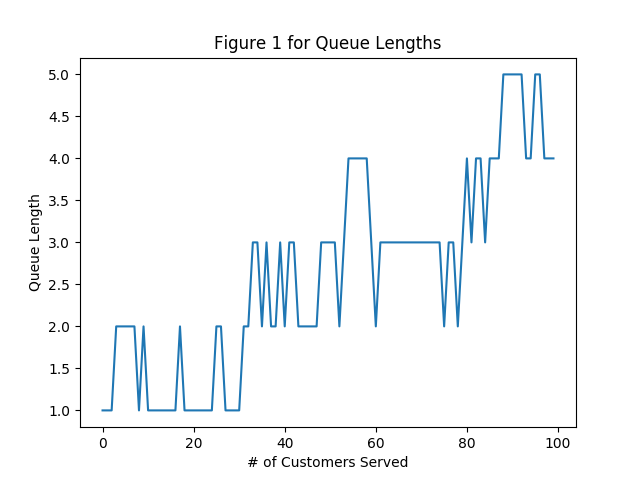
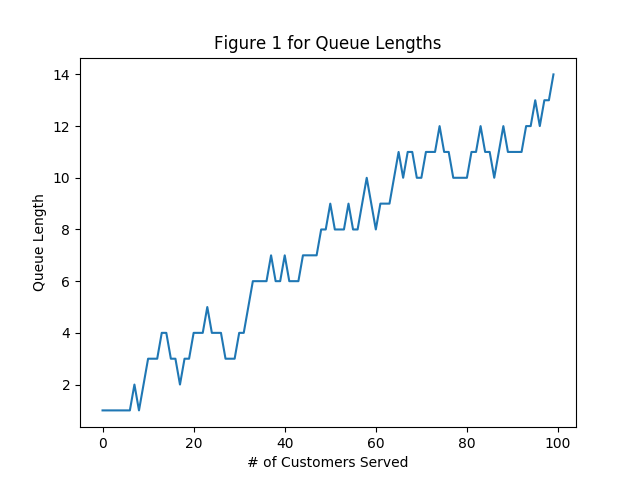
fully functional DMV sim, no graphs yet

diff --git a/Exams/Exam1/Simulation.py b/Exams/Exam1/Simulation.py
@@ -78,7 +78,7 @@ class Simulation():
             for i in range(2):
                 self.DLServers.append(Server.Server(self.dlm, self.dlM, 'DL' + str(i), self.exam))
                 self.VRServers.append(Server.Server(self.vrm, self.vrM, 'VR' + str(i), self.exam))
-            self.BOServers.append(Server.Server(self.bom, self.boM, "BO1", self.exam))
+            self.BOServers.append(Server.Server(self.bom, self.boM, "BO0", self.exam))
 
         else:
             print("not implemented yet!!!")
@@ -91,17 +91,47 @@ class Simulation():
 
         myIter = 0 
         served = 0
+
         custArrival = self.FEL.getFEL()
 
+        self.FEL.printFEL()
+
         while 1:
+            print("\nTime = %d" %(self.simClock))
 
-            self.mainDesk.serveTheCustomer(self.simClock)
+            MDresult = self.mainDesk.serveTheCustomer(self.simClock)
 
-            print('\n')
-            self.FEL.printFEL()
-            print('\n')
+            if not MDresult:
+                print()
 
-            # clock = self.custs.getCurrentCustomer(0)
+            elif MDresult[2] == 'DL Queue':
+                print('dl queue')
+                print(MDresult)
+                self.DLServerQueue.append(MDresult)
+                print("appending to DL, new size %d." % (len(self.DLServerQueue)))
+
+            elif MDresult[2] == 'VR Queue':
+                print('vr queue')
+                print(MDresult)
+                self.VRServerQueue.append(MDresult)
+                print("appending to VR, new size %d." % (len(self.VRServerQueue)))
+
+            elif MDresult[2] == 'BO Queue':
+                print('bo queue')
+                print(MDresult)
+                self.BOServerQueue.append(MDresult)  
+                print("appending to BO, new size %d." % (len(self.BOServerQueue)))
+
+            # Service all queues
+            for i in range(len(self.DLServers)):
+                self.DLServers[i].serveTheCustomer()
+
+            for i in range(len(self.VRServers)):
+                self.VRServers[i].serveTheCustomer()
+
+            for i in range(len(self.BOServers)):
+                self.BOServers[i].serveTheCustomer()
+
             
             if custArrival[myIter][0] == self.simClock:
 
@@ -116,53 +146,61 @@ class Simulation():
                 myIter += 1
                 if myIter == self.totalCustomers:
                     myIter = self.totalCustomers - 1
-        
 
             if (not self.mainDesk.getBusyState() and len(self.MDServerQueue) > 0):
-                self.MDServerQueue.popleft()
-                start, stop = self.mainDesk.service(self.simClock, custArrival[served])
+                customer = self.MDServerQueue.popleft()
+                start, stop = self.mainDesk.service(self.simClock, customer)
                 self.mainDesk.serveTheCustomer(self.simClock)
+                # print(start)
+                # print("what the frick")
+                # print(stop)
+                # print("why are you being crap")
                 self.FEL.pushEvent(start)
                 self.FEL.pushEvent(stop)
 
-                served += 1
-
             for i in range(len(self.DLServers)):
-                if (not self.DLServers[i].getBusyState and len(self.DLServerQueue) > 0):
+                if (not self.DLServers[i].getBusyState() and len(self.DLServerQueue) > 0):
+                    print('\n')
                     customer = self.DLServerQueue.popleft()
                     start, stop = self.DLServers[i].service(self.simClock, customer)
+                    print(customer)
+                    print(start)
+                    print(stop)
                     self.DLServers[i].serveTheCustomer()
+                    print("Server %s is FINALLY DOING SOMETHING USEFUL!!!" %(self.DLServers[i].getServerID()))
                     # self.servedCustomers += 1
-                print("something")
 
             for i in range(len(self.VRServers)):
-                print("something again")
+                if (not self.VRServers[i].getBusyState() and len(self.VRServerQueue) > 0):
+                    print('\n')
+                    customer = self.VRServerQueue.popleft()
+                    start, stop = self.VRServers[i].service(self.simClock, customer)
+                    print(customer)
+                    print("here's the bug for vr")
+                    print(start)
+                    print(stop)
+                    self.VRServers[i].serveTheCustomer()
+                    print("Server %s is FINALLY DOING SOMETHING USEFUL!!!" %(self.VRServers[i].getServerID()))
 
 
             for i in range(len(self.BOServers)):
-                print("something twice again")
+                if (not self.BOServers[i].getBusyState() and len(self.BOServerQueue) > 0):
+                    print('\n')
+                    customer = self.BOServerQueue.popleft()
+                    start, stop = self.BOServers[i].service(self.simClock, customer)
+                    print(customer)
+                    print("here's the bug for bo")
+                    print(start)
+                    print(stop)
+                    self.BOServers[i].serveTheCustomer()
+                    print("Server %s is FINALLY DOING SOMETHING USEFUL!!!" %(self.BOServers[i].getServerID()))
 
+            print('\n')
+            print("MD server queue = %d" %(len(self.MDServerQueue)))
+            print("DL server queue = %d" %(len(self.DLServerQueue)))
+            print("VR server queue = %d" %(len(self.VRServerQueue)))
+            print("BO server queue = %d" %(len(self.BOServerQueue)))
 
-            # # The first available server will be selected to serve the next customer.
-            # # Server One is the default Server. 
-            # if (not self.server1.getBusyState() and len(self.queue) > 0):
-            #     self.queue.popleft()
-            #     self.beginServing1()
-            #     self.serve1()
-            #     self.servedCustomers += 1
-            #     # print("\nServer One Now serving next customer at time %d.\n" % (self.simClock))
-
-            # if (not self.server2.getBusyState() and len(self.queue) > 0 and self.server1.getBusyState()):
-            #     self.queue.popleft()
-            #     self.beginServing2()
-            #     self.serve2()
-            #     self.servedCustomers += 1
-
-            #     # print("\nServer Two Now serving next customer at time %d.\n" % (self.simClock))
-
-            # else:
-
-                # print("No customer to serve or both servers are busy.")
             time.sleep(.5)
             self.simClock += 1 
             # if (not self.server1.getBusyState() and not self.server2.getBusyState() and self.servedCustomers == self.totalCustomers):

diff --git a/Homework/HW2/Simulation.py b/Homework/HW2/Simulation.py
@@ -113,6 +113,7 @@ class Simulation():
 
         myIter = 0 
 
+        print(self.arrivalTimes)
         while 1:
 
             self.serve1()
@@ -140,15 +141,15 @@ class Simulation():
                 self.beginServing1()
                 self.serve1()
                 self.servedCustomers += 1
-                # print("\nServer One Now serving next customer at time %d.\n" % (self.simClock))
+                print("\nServer One Now serving next customer at time %d.\n" % (self.simClock))
 
-            if (not self.server2.getBusyState() and len(self.queue) > 0 and self.server1.getBusyState()):
+            if (not self.server2.getBusyState() and len(self.queue) > 0):
                 self.queue.popleft()
                 self.beginServing2()
                 self.serve2()
                 self.servedCustomers += 1
 
-                # print("\nServer Two Now serving next customer at time %d.\n" % (self.simClock))
+                print("\nServer Two Now serving next customer at time %d.\n" % (self.simClock))
 
             # else:
 
@@ -159,7 +160,7 @@ class Simulation():
             ##############################################################################
             ''' Uncomment print functions and change speed to see results in real time!'''
             ##############################################################################
-            time.sleep(.0001) # 1000 iterations/simulation seconds per second. Used to quickly speed up a simulation. 
+            time.sleep(.25) # 1000 iterations/simulation seconds per second. Used to quickly speed up a simulation. 
 
             if (not self.server1.getBusyState() and not self.server2.getBusyState() and self.servedCustomers == self.totalCustomers):
                 break

diff --git a/Exams/Exam1/Server.py b/Exams/Exam1/Server.py
@@ -25,7 +25,7 @@ class Server(object):
 			self.currentServeTime = rand.randint(self.minTime, self.maxTime)
 			self.serverTimes.append(self.currentServeTime)
 			self.servingCustomer = customer
-			print("Servicing customer %s." %(self.servingCustomer[1]))
+			print("Servicing customer %s at %s" %(self.servingCustomer[1], self.serverID))
 			return [time, self.serverID, 'start'], [time + self.currentServeTime, self.serverID, 'stop']
 
 	__service = service
@@ -34,13 +34,12 @@ class Server(object):
 		# 	print("Service already started.")
 
 	def serveTheCustomer(self):
-		print(self.currentServeTime)
 		if (self.currentServeTime != 0):
 			self.currentServeTime -= 1
 			# print("Server is busy.")
 
 		elif (self.currentServeTime == 0 and self.busy): 
-			# print("Finished Serving, not busy anymore.")
+			print("Finished Serving, not busy anymore for %s." %(self.serverID))
 			self.toggleBusy() # Not busy anymore.
 
 	__serveTheCustomer = serveTheCustomer

diff --git a/Exams/Exam1/MainDesk.py b/Exams/Exam1/MainDesk.py
@@ -57,14 +57,16 @@ class MainDesk(Server.Server):
 	def serveTheCustomer(self, time):
 		if (self.currentServeTime != 0):
 			self.currentServeTime -= 1
-			# print("Server is busy.")
+			return False
 
 		elif (self.currentServeTime == 0 and self.busy and self.serverID == 'MD'):
 			self.toggleBusy()
 			self.servingCustomer[0] = time
 			assignment = self.examQueueAssignment()
-			print(assignment)
 			return assignment
+
+		else:
+			return False
 
 
 

diff --git a/Homework/HW2/Server.py b/Homework/HW2/Server.py
@@ -21,7 +21,7 @@ class Server():
 			self.toggleBusy() # Serving
 			self.currentServeTime = rand.randint(self.minTime, self.maxTime)
 			self.serverTimes.append(self.currentServeTime)
-			# print("This is the current server time %d." %(self.currentServeTime))
+			print("This is the current server time %d." %(self.currentServeTime))
 		# else:
 		# 	print("Service already started.")
 

diff --git a/Exams/Exam1/FEL.py b/Exams/Exam1/FEL.py
@@ -10,6 +10,7 @@ class FEL(object):
 	def __init__(self):
 		# 0th element = int type
 		# 1st element = string type
+		# 2nd element = event type
 		self.futureEventList = deque( [] ) 
 
 	def pushEvent(self, item):
